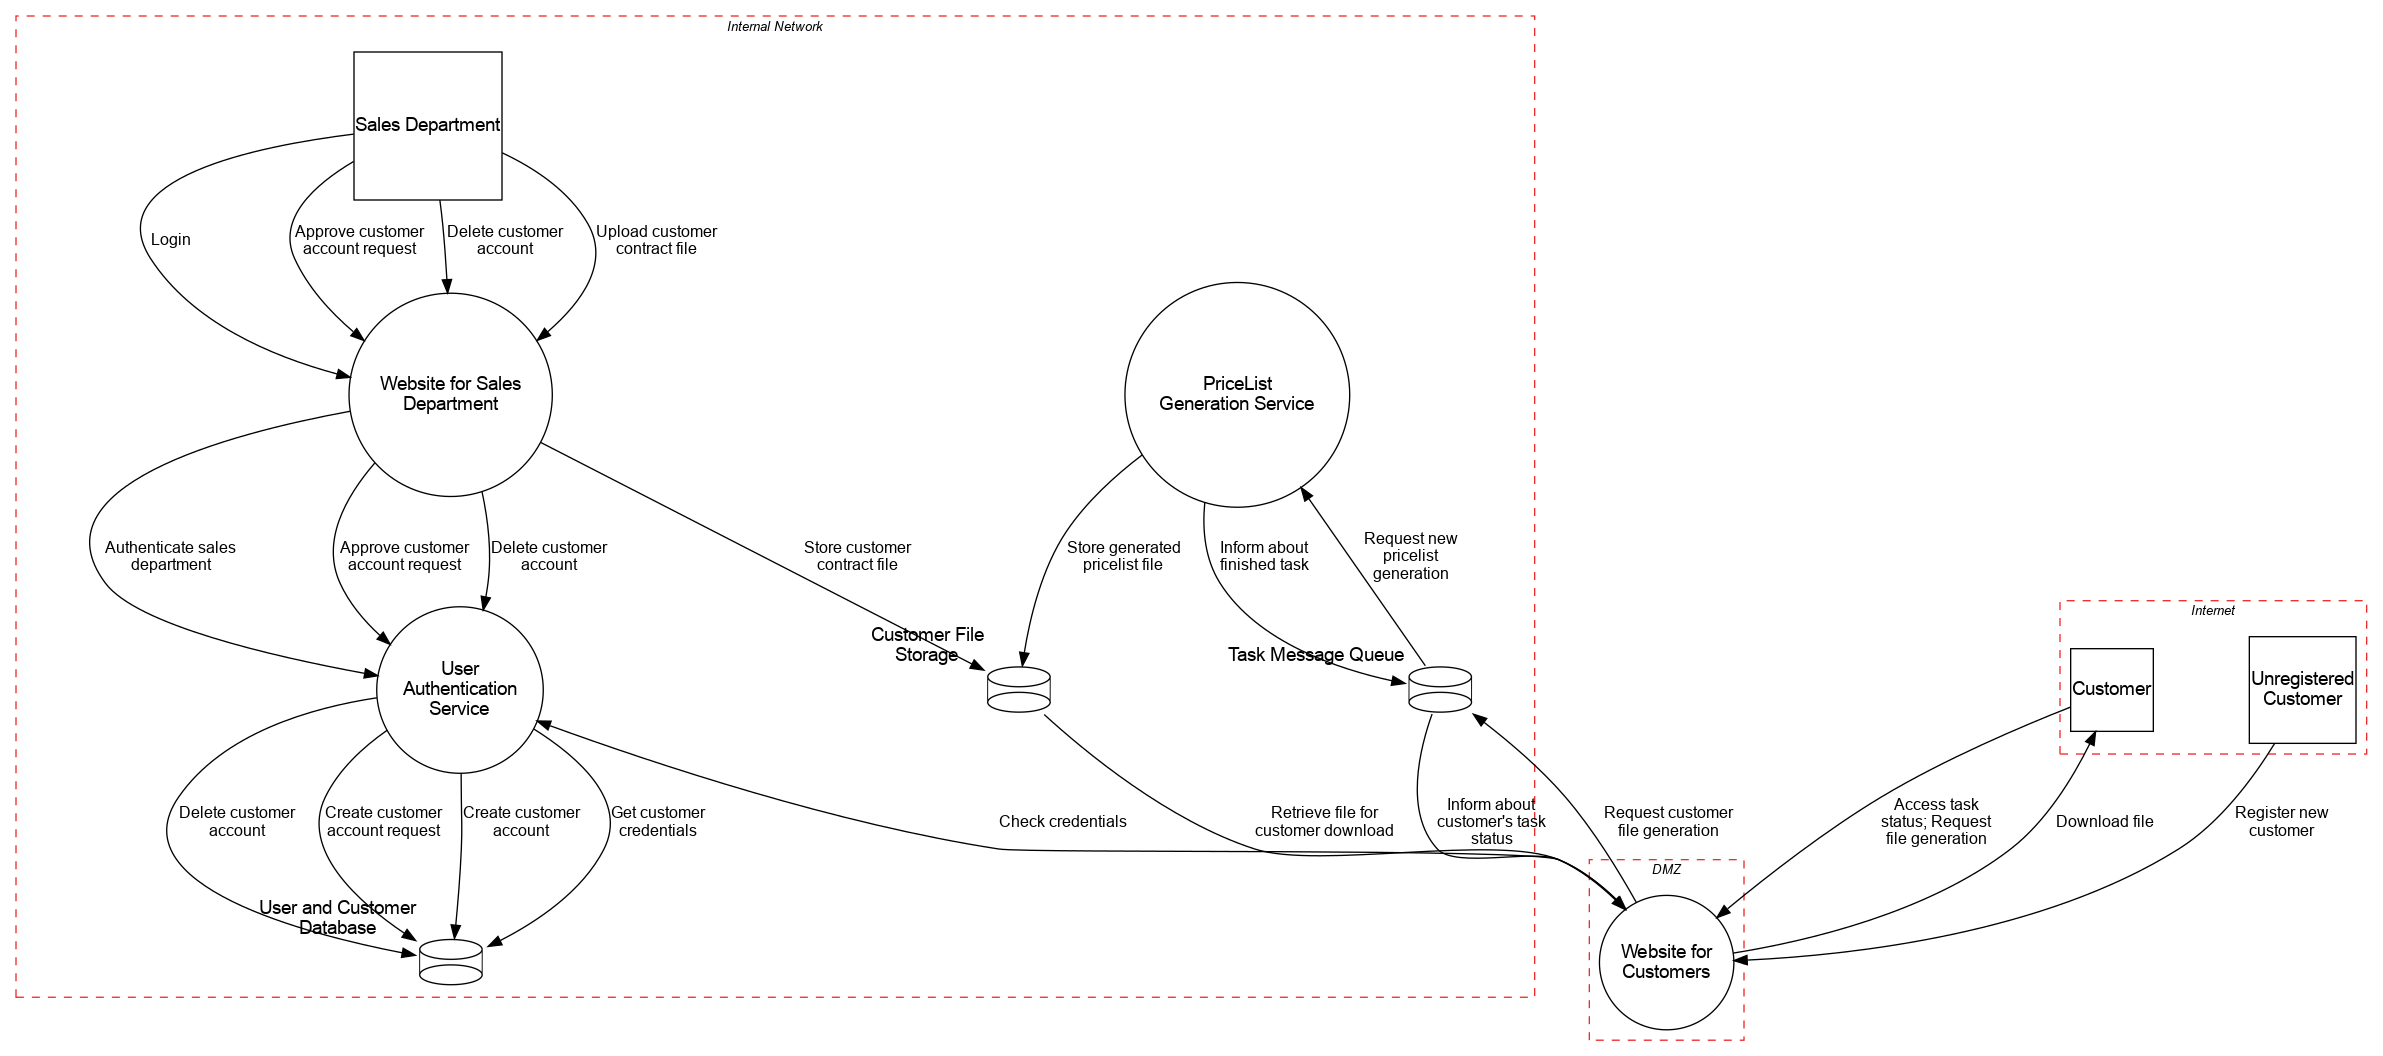
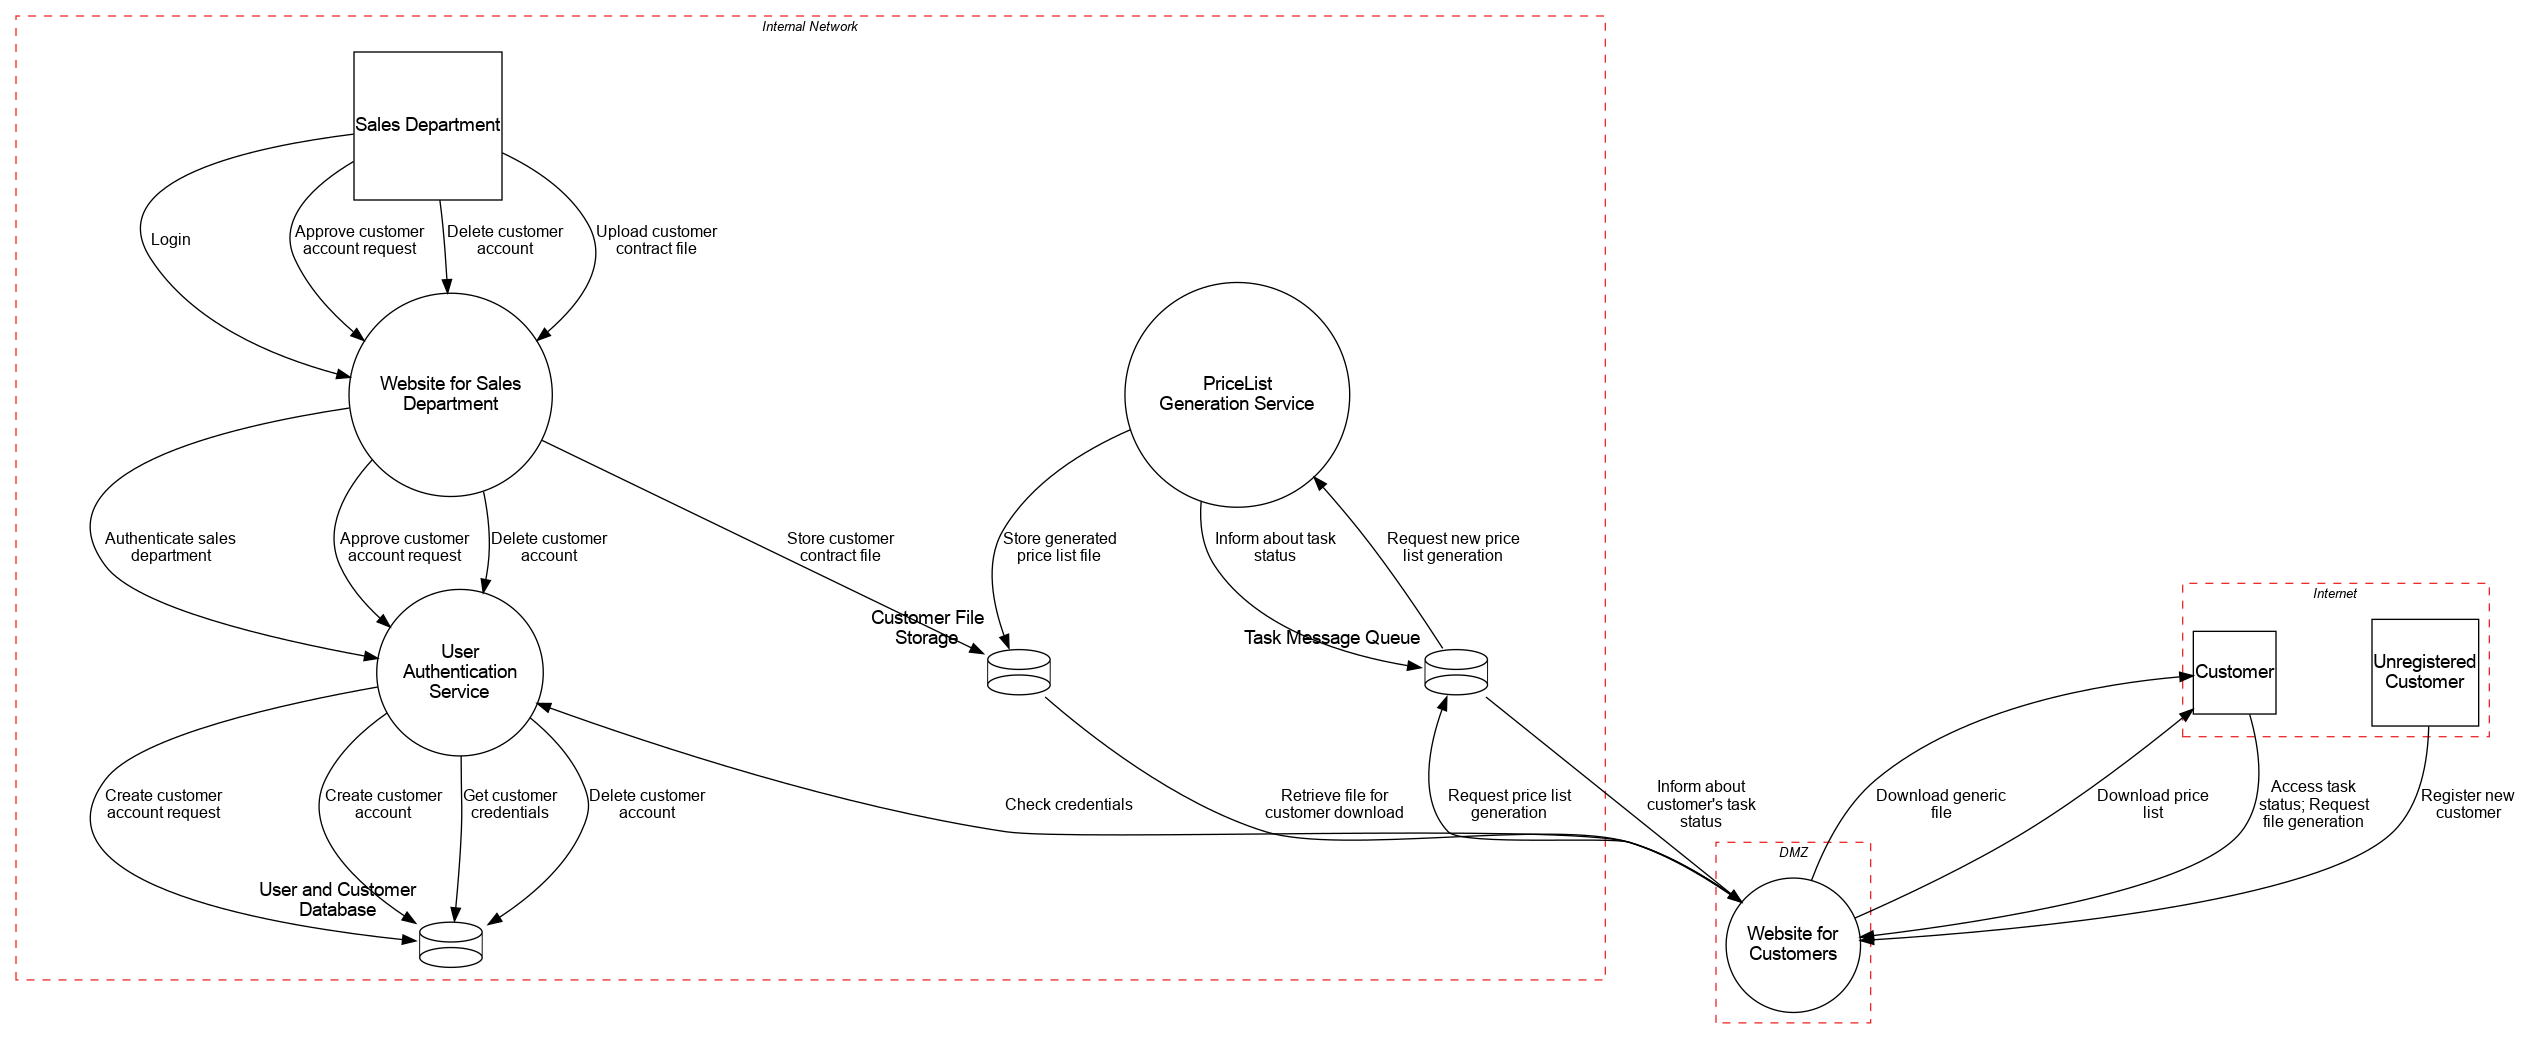
Start aligning threat model

diff --git a/threat-model/continuous-tm-customer-portal.py b/threat-model/continuous-tm-customer-portal.py
@@ -3,7 +3,7 @@
 from pytm import TM, Boundary, Actor, Datastore, Process, Dataflow
 
 tm = TM("Customer Portal")
-tm.description = "A customer self-service portal for contracts, pricelists and catalog data. The customer registration is out of scope since that is managed through another workflow"
+tm.description = "A customer self-service portal for contracts, price lists and catalog data. The customer registration is out of scope since that is managed through another workflow"
 
 tzInternet = Boundary("Internet")
 tzDMZ = Boundary("DMZ")
@@ -43,11 +43,23 @@ dfRegisterCustomer = Dataflow(actorUnregisteredCustomer, procWebsiteCustomers, "
 dfRegisterCustomer.protocol = "HTTPS"
 dfRegisterCustomer.dstPort = 443
 
-dfCustomerAccessWebsite = Dataflow(actorCustomer, procWebsiteCustomers, "Access task status; Request file generation")
-dfCustomerAccessWebsite.protocol = "HTTPS"
-dfCustomerAccessWebsite.dstPort = 443
+dfCustomerAccessPriceListGenStatus = Dataflow(actorCustomer, procWebsiteCustomers, "Access price list generation status")
+dfCustomerAccessPriceListGenStatus.protocol = "HTTPS"
+dfCustomerAccessPriceListGenStatus.dstPort = 443
 
-dfCustomerDownloadsFile = Dataflow(procWebsiteCustomers, actorCustomer, "Download file")
+dfCustomerAccessRequestPriceList = Dataflow(actorCustomer, procWebsiteCustomers, "Request price list generation")
+dfCustomerAccessRequestPriceList.protocol = "HTTPS"
+dfCustomerAccessRequestPriceList.dstPort = 443
+
+dfCustomerListGenericFiles = Dataflow(actorCustomer, procWebsiteCustomers, "List generic customer files")
+dfCustomerListGenericFiles.protocol = "HTTPS"
+dfCustomerListGenericFiles.dstPort = 443
+
+dfCustomerDownloadsFile = Dataflow(procWebsiteCustomers, actorCustomer, "Download generic file")
+dfCustomerDownloadsFile.protocol = "HTTPS"
+dfCustomerDownloadsFile.dstPort = 443
+
+dfCustomerDownloadsFile = Dataflow(procWebsiteCustomers, actorCustomer, "Download price list file")
 dfCustomerDownloadsFile.protocol = "HTTPS"
 dfCustomerDownloadsFile.dstPort = 443
 
@@ -95,17 +107,17 @@ def fileGenerationProcesses(customerFileStorage: Datastore, taskStatusProcess: P
     dfCustomerCheckTaskStatus.protocol = "TCP"
     dfCustomerCheckTaskStatus.dstPort = 1234
 
-    dfRequestFileGeneration = Dataflow(taskStatusProcess, storeTaskMessageQueue, "Request customer file generation")
+    dfRequestFileGeneration = Dataflow(taskStatusProcess, storeTaskMessageQueue, "Request price list generation")
 
-    dfStartPriceListGenerationTask = Dataflow(storeTaskMessageQueue, procPriceListGenerationService, "Request new pricelist generation")
+    dfStartPriceListGenerationTask = Dataflow(storeTaskMessageQueue, procPriceListGenerationService, "Request new price list generation")
     dfStartPriceListGenerationTask.protocol = "TCP"
     dfStartPriceListGenerationTask.dstPort = 1234
 
-    dfEndPriceListGenerationTask = Dataflow(procPriceListGenerationService, storeTaskMessageQueue, "Inform about finished task")
-    dfEndPriceListGenerationTask.protocol = "TCP"
-    dfEndPriceListGenerationTask.dstPort = 1234
+    dfStatusPriceListGenerationTask = Dataflow(procPriceListGenerationService, storeTaskMessageQueue, "Inform about task status")
+    dfStatusPriceListGenerationTask.protocol = "TCP"
+    dfStatusPriceListGenerationTask.dstPort = 1234
 
-    dfPriceListFileSave = Dataflow(procPriceListGenerationService, storeCustomerFiles, "Store generated pricelist file")
+    dfPriceListFileSave = Dataflow(procPriceListGenerationService, storeCustomerFiles, "Store generated price list file")
     dfPriceListFileSave.protocol = "S3"
     dfPriceListFileSave.dstPort = 443
 
